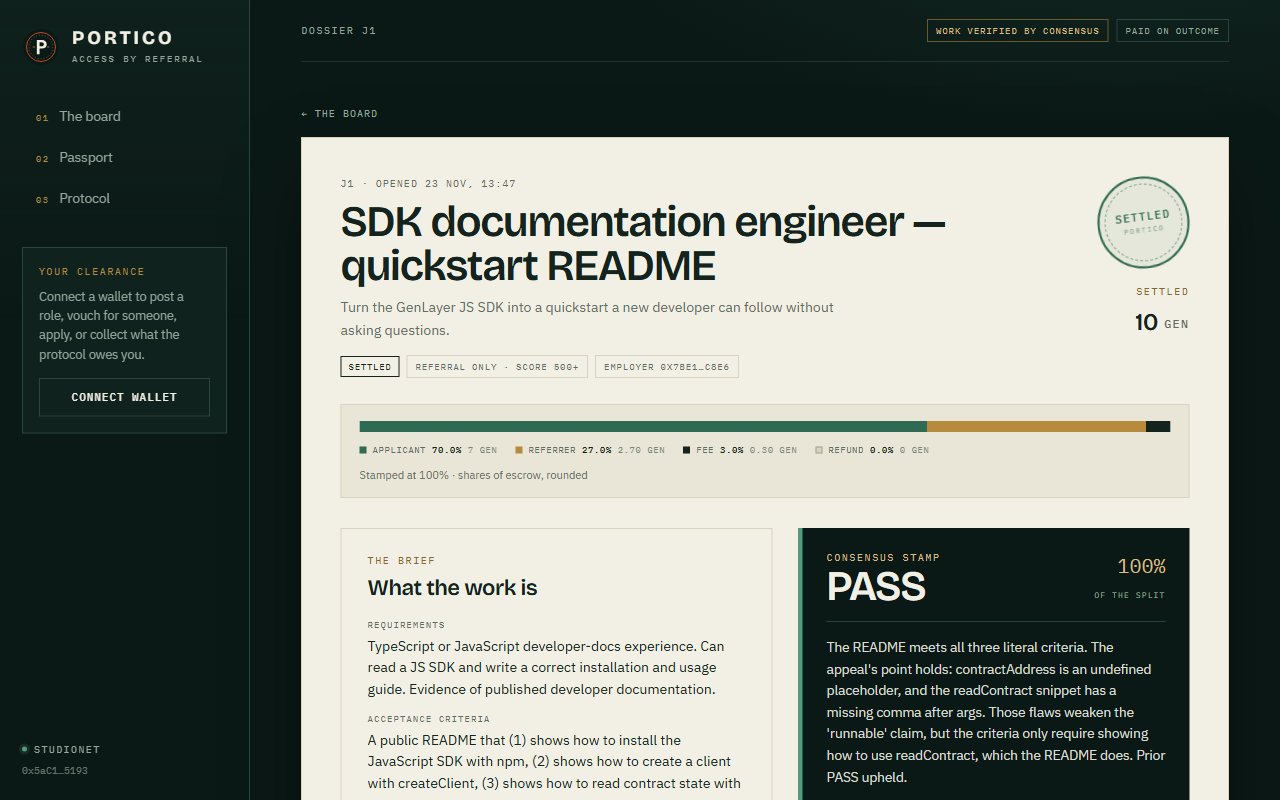
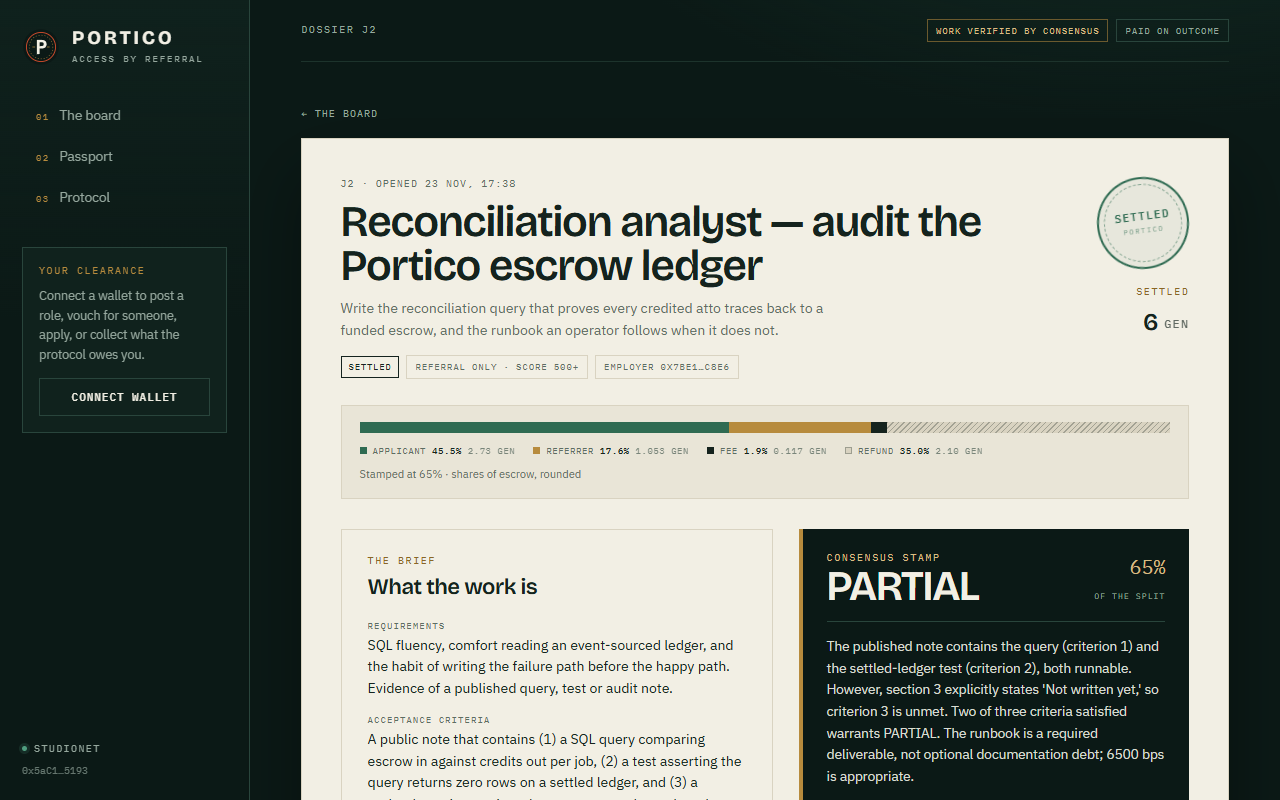
Add a second live dossier: partial payout, appeal, strict bucket
J2 (reconciliation analyst, 6 GEN) settled at PARTIAL 6500 bps after the
applicant appealed and the panel upheld the ratio. Records the first
adjudication round going UNDETERMINED on a bucket mismatch, then
finalizing on retry. Demo driver gains ledger scenario, withdraw stage
and APPELLANT selection; README and architecture carry both dossiers.

diff --git a/docs/architecture.md b/docs/architecture.md
@@ -259,8 +259,9 @@ rejection, reputation and passport stability.
 ### Live consensus on Studionet
 
 Deployed with `300` bps fee, `0.05 GEN` referral bond, `1 GEN` minimum escrow and `0.01 GEN` appeal
-floor at `0x5aC11FD294a0E883a30802FAE20c8F148D975193`. The scripted run drove one dossier through
-the full lifecycle with real web reads and real model calls:
+floor at `0x5aC11FD294a0E883a30802FAE20c8F148D975193`. The scripted run drove two dossiers through
+the full lifecycle with real web reads and real model calls: a documentation role that passed, and a
+reconciliation role whose deliverable was deliberately incomplete.
 
 | Stage | Transaction | Result |
 | --- | --- | --- |
@@ -316,6 +317,55 @@ not reach a verdict (the leader read PARTIAL against a PASS committee), so the c
 `UNDETERMINED`. The job stayed `APPEALED`, both authenticated statements stayed on file, and the
 retry upheld `PASS`. That is the protocol behaving correctly: ambiguity does not get laundered into
 state, an inconclusive round costs nothing but a retry, and the dossier remains settleable.
+
+### Second dossier: a partial, an appeal, and a strict bucket
+
+`J2` is the same contract, a different role, and a different money path. The employer funded 6 GEN
+for a reconciliation note with three criteria. The delivered note contains the escrow-versus-credits
+query and the settled-ledger test, and says in plain text that the operator runbook is not written.
+The panel scored two of three criteria and snapped the payout to 6,500 bps.
+
+| Stage | Transaction | Result |
+| --- | --- | --- |
+| `post_job` | `0x16d841c5…` | `J2`, 6 GEN funded, referral-gated |
+| `refer` | `0xee663c32…` | `R2`, 0.05 GEN bond locked |
+| `apply` | `0x4b74c0c0…` | `A2` filed against the pushed sample note |
+| `review_application` | `0x3904a41d…` | `PARTIAL` screening, gate `QUALIFIED` |
+| `hire` | `0x9a4ab790…` | `HIRED` |
+| `submit_work` | `0xdcc5f8ad…` | `DELIVERED` with the sample note |
+| `adjudicate` (round 1) | `0x31b08ad5…` | `UNDETERMINED`: the leader executed `PARTIAL`, but the committee did not match its exact ratio bucket, so no state was written |
+| `adjudicate` (round 2) | `0x8026c6c7…` | `PARTIAL` at exactly 6,500 bps, confidence 95 |
+| `withdraw` | `0xc59ccdb7…` | the applicant pulled 7.5 GEN of prior credit |
+| `appeal` | `0xc89b045f…` | the applicant bonded 0.3 GEN, arguing the runbook is documentation debt |
+| `reply_to_appeal` | `0xb7201b4b…` | the employer answered that the third criterion is not optional |
+| `resolve_appeal` | `0x72948f5c…` | `PARTIAL` upheld at 6,500 bps; the applicant's bond forfeited to the employer |
+| `settle` | `0xfaa51026…` | `SETTLED` |
+
+The first adjudication is the exact-ratio rule doing its job. Two independent readings agreed the
+work was partial but landed on different 500-point buckets, so the round produced no verdict and
+left `adjudications` at zero. A retry converged, and only then did the contract write a payout. A
+"roughly the same" partial would have paid a number no validator actually agreed on.
+
+Final credits for `J2` (6 GEN escrow plus a 0.05 GEN referral bond and a 0.3 GEN appeal bond):
+
+| Entry | Recipient | Role | Amount |
+| --- | --- | --- | --- |
+| L1 | applicant | candidate payout at 65% | 2.73 GEN |
+| L2 | referrer | referral bounty at 65% | 1.053 GEN |
+| L3 | protocol owner | protocol fee at 65% | 0.117 GEN |
+| L4 | employer | unearned escrow refunded | 2.1 GEN |
+| L5 | employer | applicant's appeal bond, forfeited | 0.3 GEN |
+| L6 | referrer | referral bond returned | 0.05 GEN |
+
+`2.73 + 1.053 + 0.117 + 2.1 = 6.0 GEN` of escrow exactly, with both bonds accounted for. The
+appeal quote shows the panel re-reading the record rather than deferring to the prior verdict:
+
+> Section 3 explicitly states "Not written yet," so criterion 3 is unmet. Two of three criteria
+> satisfied warrants PARTIAL. The runbook is a required deliverable, not optional documentation
+> debt; 6500 bps is appropriate.
+
+After both dossiers the contract reports 2 posted, 2 settled and 13.9 GEN paid out, with the board
+showing the partial first.
 
 ## 11. Deployment parameters
 

diff --git a/README.md b/README.md
@@ -11,7 +11,7 @@ the work did not earn.
 
 Nobody approves the payment. No operator key can redirect it.
 
-![The settled dossier: a 100% pass, the appeal on the record, and the ledger](docs/dossier.png)
+![A settled partial: the 65% stamp, the split, and the refund on the bar](docs/dossier.png)
 
 ```
 employer funds ──► referral opens ──► validators screen ──► hire ──► delivery
@@ -25,7 +25,7 @@ employer funds ──► referral opens ──► validators screen ──► hi
 | --- | --- |
 | **Contract** | `contracts/portico.py` — one intelligent contract, no dependencies |
 | **Network** | GenLayer Studionet · chain id `61999` |
-| **Live dossier** | [`0x5aC11FD2…5193`](https://explorer-studio.genlayer.com/address/0x5aC11FD294a0E883a30802FAE20c8F148D975193) — `J1` settled at 100% after a bonded appeal and an authenticated answer |
+| **Live dossiers** | [`0x5aC11FD2…5193`](https://explorer-studio.genlayer.com/address/0x5aC11FD294a0E883a30802FAE20c8F148D975193) — `J1` settled at 100%, `J2` at 65% after an appeal upheld the partial |
 | **Interface** | 18 writes · 16 views |
 | **Consensus** | leader/validator re-derivation on screening, delivery and appeal |
 | **Tests** | 64 direct-mode tests, 0 failed |
@@ -266,16 +266,26 @@ npx vercel --prod   # from the repo root, after `npx vercel link`
 
 ### Live consensus run
 
-`frontend/scripts/live-demo.mjs` drives one dossier through every stage with real web reads and real
-model calls. Two scenarios are built in: `sdk` (a documentation role that settled at a full pass) and
-`ledger` (a reconciliation role with a partial deliverable). Set `SCENARIO` and `STATE_PATH` to keep
-their state apart. See [`docs/architecture.md`](docs/architecture.md) for the transcripts.
+`frontend/scripts/live-demo.mjs` drives a dossier through every stage with real web reads and real
+model calls. Two scenarios are built in: `sdk` (documentation, settled at a full pass) and `ledger`
+(reconciliation, a deliberately partial deliverable). Set `SCENARIO` and `STATE_PATH` to keep their
+state apart, and `APPELLANT=applicant|employer` to pick the appeal side.
+
+| Dossier | Role | Escrow | Verdict | Applicant | Referrer | Fee | Refund |
+| --- | --- | --- | --- | --- | --- | --- | --- |
+| `J1` | SDK documentation engineer | 10 GEN | `PASS` · 100% | 7.000 | 2.700 | 0.300 | 0.000 |
+| `J2` | Reconciliation analyst | 6 GEN | `PARTIAL` · 65% | 2.730 | 1.053 | 0.117 | 2.100 |
+
+Both dossiers were appealed and re-read by a second consensus round. `J1` upheld a pass and forfeited
+the employer's bond; `J2` upheld a partial and forfeited the applicant's bond. See
+[`docs/architecture.md`](docs/architecture.md) for the transcripts.
 
 ```bash
 cd frontend
 CONTRACT=0x... EMPLOYER_PK=0x... REFERRER_PK=0x... APPLICANT_PK=0x... \
   node scripts/live-demo.mjs post
-# then: refer, apply, screen, hire, deliver, adjudicate, appeal, reply, resolve, settle, show
+# then: refer, apply, screen, hire, deliver, adjudicate, withdraw, appeal, reply, resolve, settle, show
+# SCENARIO=ledger APPELLANT=applicant node scripts/live-demo.mjs appeal
 ```
 
 ## Test coverage
